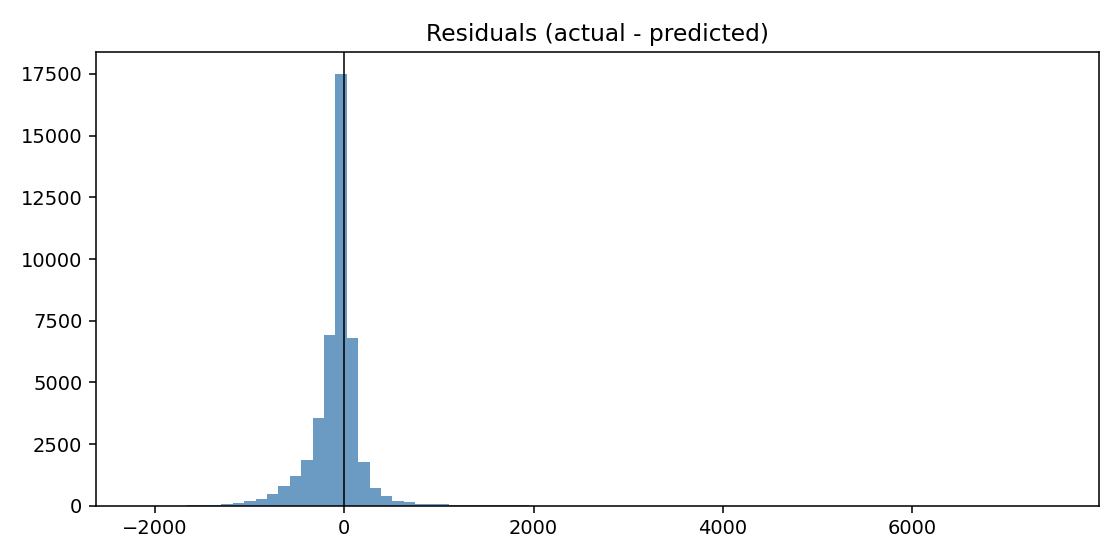
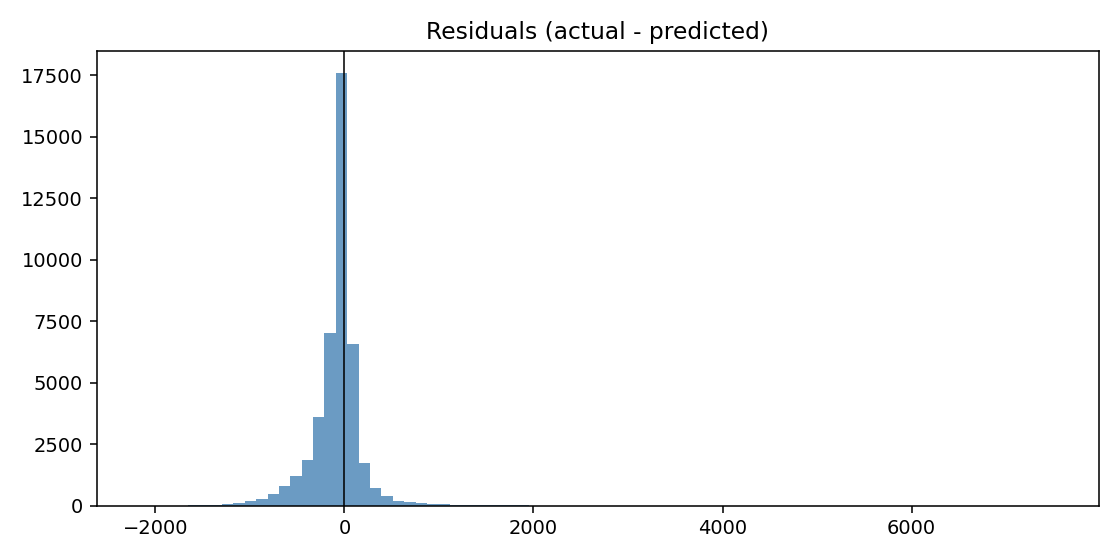
exp(pipeline): refresh all reports and figures from latest pipeline run
Re-ran make all with the upgraded MLflow tracking enabled. No model
or metric changes — outputs are byte-identical regressions of the
existing pipeline, just refreshed for consistency with the audit:

  demand HGB + uplift  WAPE test 0.249 (val 0.179)
  demand LGB + uplift  WAPE test 0.247 (val 0.178)  ← best
  cash   HGB + buffer  WAPE test 0.153, coverage P90 = 94.6%

Files refreshed:
  · demand_experiment_summary.json (now also tracks LightGBM base + uplift)
  · demand_overall_test_metrics.csv, demand_metrics_by_{category,event,region,store_format}.csv
  · cash_metrics_by_{event,region,store_format}.csv
  · experiment_summary.md
  · figures: demand_actual_vs_pred.png, demand_residuals.png,
             cash_actual_vs_pred.png, cash_residuals.png

diff --git a/reports/experiment_summary.md b/reports/experiment_summary.md
@@ -9,10 +9,10 @@
 | baseline_rolling28    | test    | 0.4021 | 284.809 | 560.645 |  0.3624 | -67.5641 | 43662 |
 | baseline_dow_mean     | val     | 0.313  | 234.314 | 603.073 |  0.2767 | 201.669  | 29280 |
 | baseline_dow_mean     | test    | 0.335  | 237.269 | 573.941 |  0.3049 | 156.553  | 43662 |
-| hgb_demand_v1         | val     | 0.179  | 133.967 | 261.035 |  0.1743 |  10.1607 | 29280 |
-| hgb_demand_v1         | test    | 0.2487 | 176.119 | 312.882 |  0.2552 | -74.1788 | 43662 |
-| hgb_demand_v1_base    | val     | 0.2618 | 195.98  | 536.705 |  0.2191 | 112.257  | 29280 |
-| hgb_demand_v1_base    | test    | 0.2955 | 209.327 | 467.751 |  0.2765 | -27.1046 | 43662 |
+| hgb_demand_v1         | val     | 0.179  | 133.982 | 261.116 |  0.1743 |  10.1673 | 29280 |
+| hgb_demand_v1         | test    | 0.2487 | 176.142 | 313.002 |  0.2552 | -74.0082 | 43662 |
+| hgb_demand_v1_base    | val     | 0.2618 | 195.993 | 536.763 |  0.2191 | 112.265  | 29280 |
+| hgb_demand_v1_base    | test    | 0.2956 | 209.359 | 467.851 |  0.2765 | -26.9421 | 43662 |
 | lgb_demand_tuned      | val     | 0.1784 | 133.54  | 261.558 |  0.1743 |   8.4176 | 29280 |
 | lgb_demand_tuned      | test    | 0.2468 | 174.804 | 308.434 |  0.2538 | -75.8925 | 43662 |
 | lgb_demand_tuned_base | val     | 0.2582 | 193.288 | 527.481 |  0.2168 | 106.221  | 29280 |
@@ -27,37 +27,37 @@
 ## Demand by category
 | category         |   wape |      mae |    rmse |   smape |      bias |    n |
 |:-----------------|-------:|---------:|--------:|--------:|----------:|-----:|
-| Abarrotes        | 0.2353 | 321.334  | 524.433 |  0.2368 |  -73.9808 | 7277 |
-| Bebidas          | 0.2387 | 254.35   | 394.623 |  0.2429 | -101.746  | 7277 |
-| Cuidado_Personal | 0.2574 | 175.585  | 272.218 |  0.2538 |  -91.8721 | 7277 |
-| Electronica      | 0.2921 |  66.7333 | 104.273 |  0.2796 |  -42.1384 | 7277 |
-| Hogar            | 0.2599 | 137.76   | 216.199 |  0.2563 |  -76.3162 | 7277 |
-| Ropa             | 0.2672 | 100.954  | 157.779 |  0.2615 |  -59.0191 | 7277 |
+| Abarrotes        | 0.2354 | 321.489  | 524.843 |  0.2369 |  -73.7267 | 7277 |
+| Bebidas          | 0.2387 | 254.364  | 394.649 |  0.2429 | -101.61   | 7277 |
+| Cuidado_Personal | 0.2574 | 175.587  | 272.226 |  0.2538 |  -91.7006 | 7277 |
+| Electronica      | 0.292  |  66.7178 | 104.263 |  0.2796 |  -42.0332 | 7277 |
+| Hogar            | 0.2599 | 137.755  | 216.202 |  0.2563 |  -76.1332 | 7277 |
+| Ropa             | 0.2672 | 100.938  | 157.777 |  0.2615 |  -58.8453 | 7277 |
 
 ## Demand by region
 | region    |   wape |     mae |    rmse |   smape |     bias |     n |
 |:----------|-------:|--------:|--------:|--------:|---------:|------:|
-| Centro    | 0.2459 | 182.007 | 314.357 |  0.2537 | -80.0379 |  6552 |
-| Norte     | 0.2478 | 182.421 | 333.433 |  0.2539 | -72.1052 |  9264 |
-| Occidente | 0.2502 | 179.77  | 324.231 |  0.256  | -68.4947 | 10920 |
-| Oriente   | 0.2492 | 162.57  | 275.213 |  0.2551 | -79.3594 |  9828 |
-| Sur       | 0.2495 | 175.604 | 315.043 |  0.2569 | -73.0481 |  7098 |
+| Centro    | 0.2459 | 182.019 | 314.521 |  0.2537 | -79.887  |  6552 |
+| Norte     | 0.2478 | 182.459 | 333.642 |  0.2539 | -71.9225 |  9264 |
+| Occidente | 0.2502 | 179.78  | 324.26  |  0.256  | -68.3252 | 10920 |
+| Oriente   | 0.2492 | 162.592 | 275.304 |  0.2551 | -79.2013 |  9828 |
+| Sur       | 0.2496 | 175.635 | 315.188 |  0.2569 | -72.8565 |  7098 |
 
 ## Demand by store format
 | store_format   |   wape |      mae |    rmse |   smape |     bias |     n |
 |:---------------|-------:|---------:|--------:|--------:|---------:|------:|
-| Bodega         | 0.2446 | 172.391  | 274.304 |  0.2494 | -95.5775 | 19092 |
-| Express        | 0.2626 |  88.6718 | 145.17  |  0.2638 | -51.1077 | 13650 |
-| Supercenter    | 0.2479 | 291.948  | 483.243 |  0.2545 | -65.605  | 10920 |
+| Bodega         | 0.2446 | 172.382  | 274.307 |  0.2494 | -95.437  | 19092 |
+| Express        | 0.2626 |  88.6748 | 145.171 |  0.2638 | -50.9608 | 13650 |
+| Supercenter    | 0.248  | 292.048  | 483.554 |  0.2545 | -65.3526 | 10920 |
 
 ## Demand by event
 | event_label   |   wape |     mae |    rmse |   smape |     bias |     n |
 |:--------------|-------:|--------:|--------:|--------:|---------:|------:|
-| holiday       | 0.3874 | 276.946 | 444.983 |  0.4791 |  98.8278 |  1920 |
-| navidad       | 0.2858 | 205.552 | 318.848 |  0.2931 | -88.0928 |  6240 |
-| payday        | 0.202  | 148.38  | 263.404 |  0.204  | -48.8073 |  2400 |
-| regular       | 0.2461 | 126.646 | 203.244 |  0.2396 | -75.3313 | 20628 |
-| weekend       | 0.2292 | 233.027 | 423.866 |  0.2372 | -96.823  | 12474 |
+| holiday       | 0.3874 | 276.963 | 445.089 |  0.4791 |  98.8681 |  1920 |
+| navidad       | 0.2859 | 205.581 | 318.975 |  0.2931 | -87.7432 |  6240 |
+| payday        | 0.2019 | 148.342 | 263.452 |  0.2039 | -48.6612 |  2400 |
+| regular       | 0.2461 | 126.648 | 203.27  |  0.2396 | -75.2217 | 20628 |
+| weekend       | 0.2292 | 233.092 | 424.087 |  0.2372 | -96.6167 | 12474 |
 
 ## Cash by region
 | region    |   wape |     mae |   rmse |   smape |     bias |    n |
